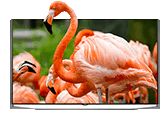
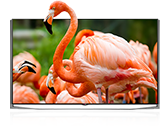
fix hover img

diff --git a/dist/assets/styles/common.css b/dist/assets/styles/common.css
@@ -327,21 +327,18 @@ This must be run when you have at least 2 sprites.
   margin-left: -165px;
   width: 331px;
   height: 356px;
-  background-image: url('../images/menu-ultra-hover.png');
 }
 .menu__item-wrap:hover .menu__item-img_type_oled {
   bottom: -35px;
   margin-left: -210px;
   width: 419px;
   height: 346px;
-  background-image: url('../images/menu-oled-hover.png');
 }
 .menu__item-wrap:hover .menu__item-img_type_webos {
   bottom: 9px;
   margin-left: -167px;
   width: 335px;
   height: 295px;
-  background-image: url('../images/menu-webos-hover.png');
 }
 .menu__item-text {
   padding: 36px 26px 0;
@@ -366,22 +363,24 @@ This must be run when you have at least 2 sprites.
   will-change: width, height, margin-left, bottom;
 }
 .menu__item-img_type_ultra {
-  margin-left: -138px;
-  width: 256px;
-  height: 275px;
-  background-image: url('../images/menu-ultra.png');
+  bottom: 25px;
+  margin-left: -154px;
+  width: 280px;
+  height: 265px;
+  background-image: url('../images/menu-ultra-hover.png');
 }
 .menu__item-img_type_oled {
   margin-left: -184px;
   width: 368px;
   height: 305px;
-  background-image: url('../images/menu-oled.png');
+  background-image: url('../images/menu-oled-hover.png');
 }
 .menu__item-img_type_webos {
+  bottom: 12px;
   margin-left: -140px;
   width: 280px;
   height: 265px;
-  background-image: url('../images/menu-webos.png');
+  background-image: url('../images/menu-webos-hover.png');
 }
 .technology {
   padding: 0 27px;

diff --git a/css/new_design/blocks/menu.less b/css/new_design/blocks/menu.less
@@ -96,7 +96,7 @@
 						margin-left: -165px;
 						width: 331px;
 						height: 356px;
-						background-image: url('../images/menu-ultra-hover.png')
+						//background-image: url('../images/menu-ultra-hover.png')
 					}
 
 					&_oled {
@@ -104,7 +104,7 @@
 						margin-left: -210px;
 						width: 419px;
 						height: 346px;
-						background-image: url('../images/menu-oled-hover.png')
+						//background-image: url('../images/menu-oled-hover.png')
 					}
 
 					&_webos {
@@ -112,7 +112,7 @@
 						margin-left: -167px;
 						width: 335px;
 						height: 295px;
-						background-image: url('../images/menu-webos-hover.png')
+						//background-image: url('../images/menu-webos-hover.png')
 					}
 
 				}
@@ -150,24 +150,26 @@
 		&_type {
 
 			&_ultra {
-				margin-left: -138px;
-				width: 256px;
-				height: 275px;
-				background-image: url('../images/menu-ultra.png')
+				bottom: 25px;
+				margin-left: -154px;
+				width: 280px;
+				height: 265px;
+				background-image: url('../images/menu-ultra-hover.png')
 			}
 
 			&_oled {
 				margin-left: -184px;
 				width: 368px;
 				height: 305px;
-				background-image: url('../images/menu-oled.png')
+				background-image: url('../images/menu-oled-hover.png')
 			}
 
 			&_webos {
+				bottom: 12px;
 				margin-left: -140px;
 				width: 280px;
 				height: 265px;
-				background-image: url('../images/menu-webos.png')
+				background-image: url('../images/menu-webos-hover.png')
 			}
 
 		}
